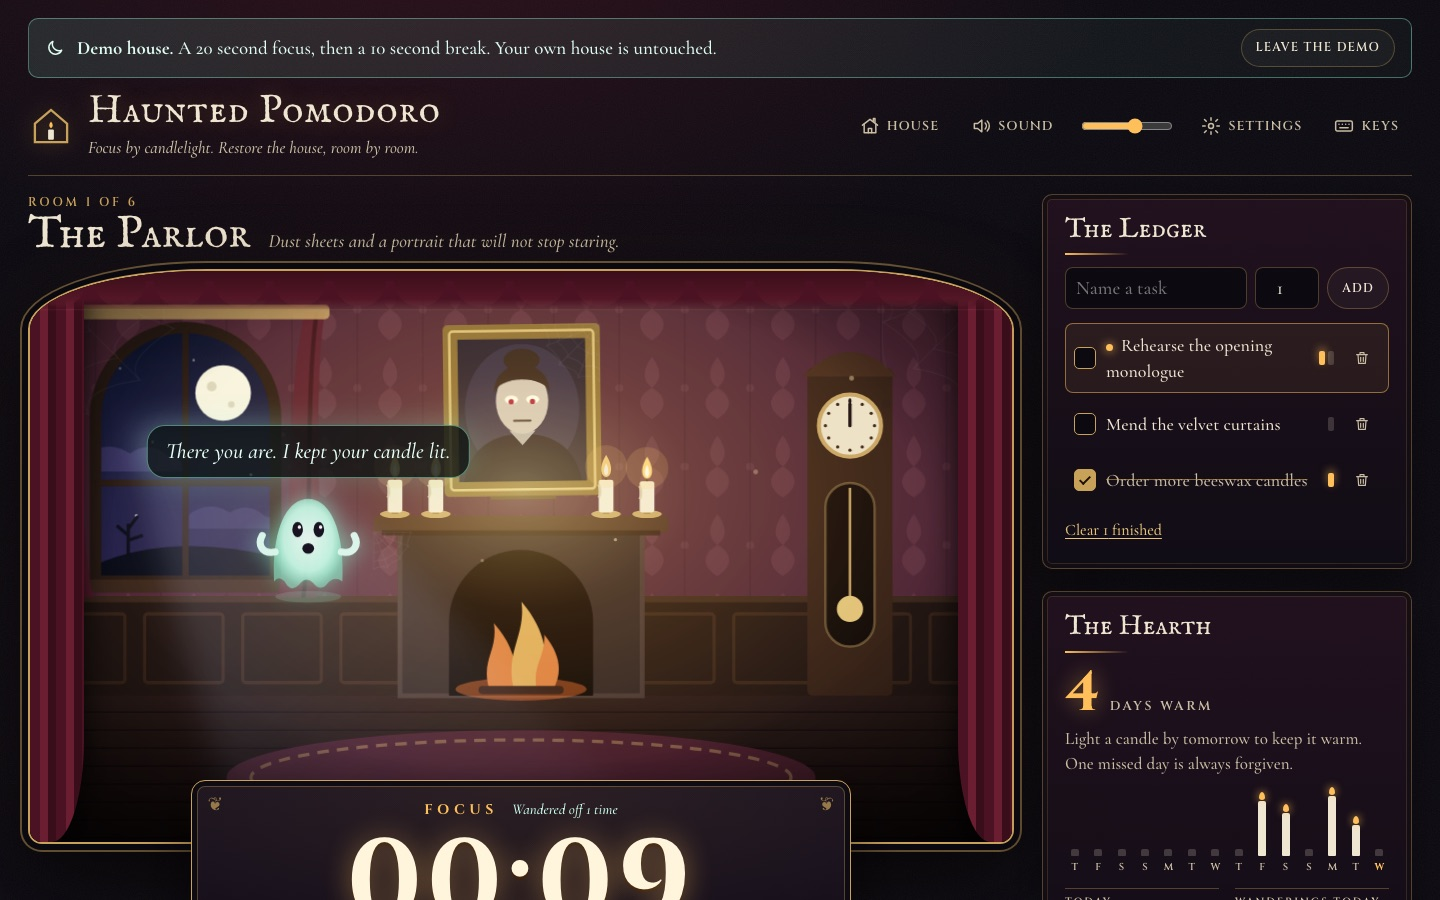
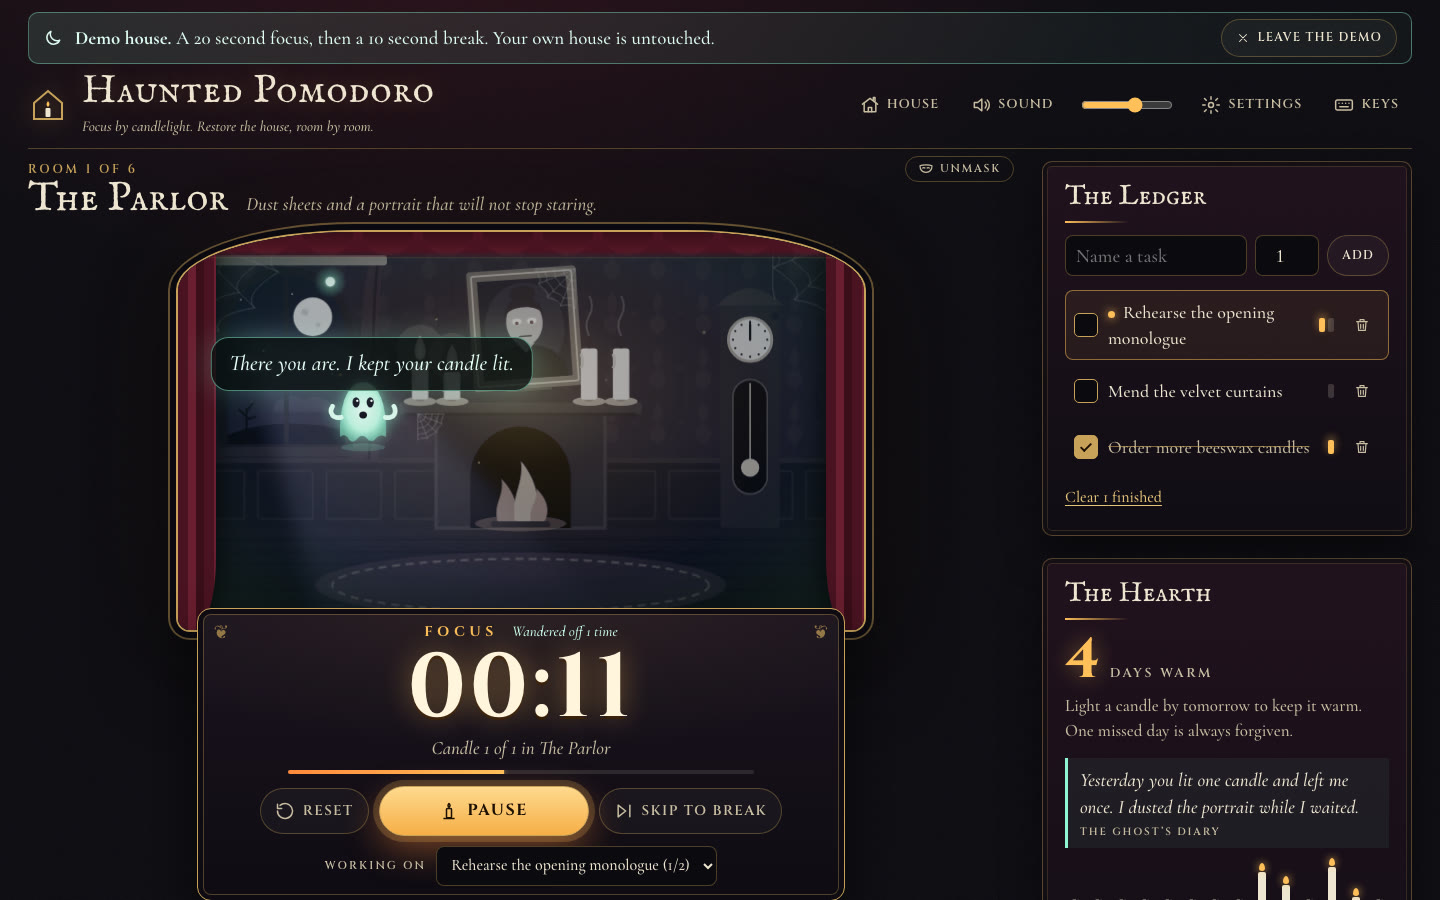
Re-record the hero GIF, the preview image and the README screenshots
npm run media now records the README stills as well: the haunted
parlor, the ghost after a wandering, the restored room, the costume
off and the finale's last page. The hero GIF gains the wander-and-
return beat (13 s), and the link-preview image shows the new payoff
frame. The README shows the two new stills under the first three.

diff --git a/README.md b/README.md
@@ -4,11 +4,15 @@
 
 A real Pomodoro timer wearing a haunted house: every focus session lights a candle, wandering off wakes a lonely ghost who counts it without taking anything away, and finished sessions restore the house room by room. Built for Kiroween 2026 (Costume Contest) by Stubborn Otter Software.
 
-![The demo in twelve seconds: the drapes part on a haunted parlor, one focus candle burns down, and a warm sweep restores the room](docs/media/hero.gif)
+![The demo in thirteen seconds: the drapes part on a haunted parlor, a candle is lit, the ghost wakes when the tab is left and greets the person on return, and a warm sweep restores the room](docs/media/hero.gif)
 
 | Haunted | You wandered off | Restored |
 |---|---|---|
-| ![The parlor, still haunted, with cobwebs and a staring portrait](docs/screenshots/haunted.jpg) | ![The ghost has drifted closer and says: there you are, I kept your candle lit](docs/screenshots/ghost.jpg) | ![The parlor restored: warm colors, the portrait asleep, the Restored banner](docs/screenshots/restored.jpg) |
+| ![The parlor, still haunted, with cobwebs and a staring portrait](docs/screenshots/haunted.jpg) | ![The ghost has drifted closer and says: there you are, I kept your candle lit](docs/screenshots/ghost.jpg) | ![The parlor restored: warm colors, the portrait asleep, the Restored caption on the rug](docs/screenshots/restored.jpg) |
+
+| Costume off (press U) | The last page (`?demo=finale`) |
+|---|---|
+| ![The same session as a plain Pomodoro: a progress bar, distraction counts, sessions toward the goal and the streak, each labelled with the part of the house behind it](docs/screenshots/costume-off.jpg) | ![The house map opened on the journal's last page, a new dark house in front and the finished house lit up the hill](docs/screenshots/finale.jpg) |
 
 > **Judges: 60 seconds.** Run `npm ci && npm run dev` and open `http://localhost:3180/?demo=1` (sound on).
 > 1. Press **Light a candle**.

diff --git a/CHANGELOG.md b/CHANGELOG.md
@@ -1,6 +1,7 @@
 # Changelog
 
 ## Unreleased
+- **Fresh media.** `npm run media` now records the README stills too (haunted, the ghost after a wandering, restored, costume off and the finale) alongside the hero GIF, which now includes the wander-and-return beat, and the link-preview image.
 - **README for a first-time reader.** A 60-second path for judges, what sets the timer apart, the lead audience first, "Built with Kiro" as a table of what each piece actually did, a "Why now" and a unit-economics line with sources. Build, test and architecture notes moved to `docs/DEVELOPING.md`.
 - **The finale demo.** `?demo=finale` opens the demo house on its last dark room. One 20-second session restores the Observatory, the ghost finishes her book, and the house map opens on the last page with a new, dark house down the lane and the finished one lit up the hill.
 - **Fixed:** a shortcut pressed straight after closing a window with Escape, or right after erasing the house, was sometimes ignored. Dialogs now close on the `cancel` event and ignore a late `close` event.

diff --git a/docs/DEVELOPING.md b/docs/DEVELOPING.md
@@ -10,7 +10,7 @@ npm run build && npm run preview   # production build with the service worker, h
 ```
 Open `http://localhost:3180/?demo=1` for the 30 second demo, `?demo=finale` for the last room and the end of the book, and `http://localhost:3180/sound-check.html` to hear and measure every sound.
 
-Set `SITE_URL` (for example `SITE_URL=https://example.pages.dev npm run build`) so the link-preview tags point at an absolute image URL. `npm run media` rebuilds and re-records the README GIF and the 1200x630 preview image from the live demo; it needs ffmpeg.
+Set `SITE_URL` (for example `SITE_URL=https://example.pages.dev npm run build`) so the link-preview tags point at an absolute image URL. `npm run media` rebuilds and re-records the README GIF, the README screenshots and the 1200x630 preview image from the live demo; it needs ffmpeg.
 
 
 ## Test it
